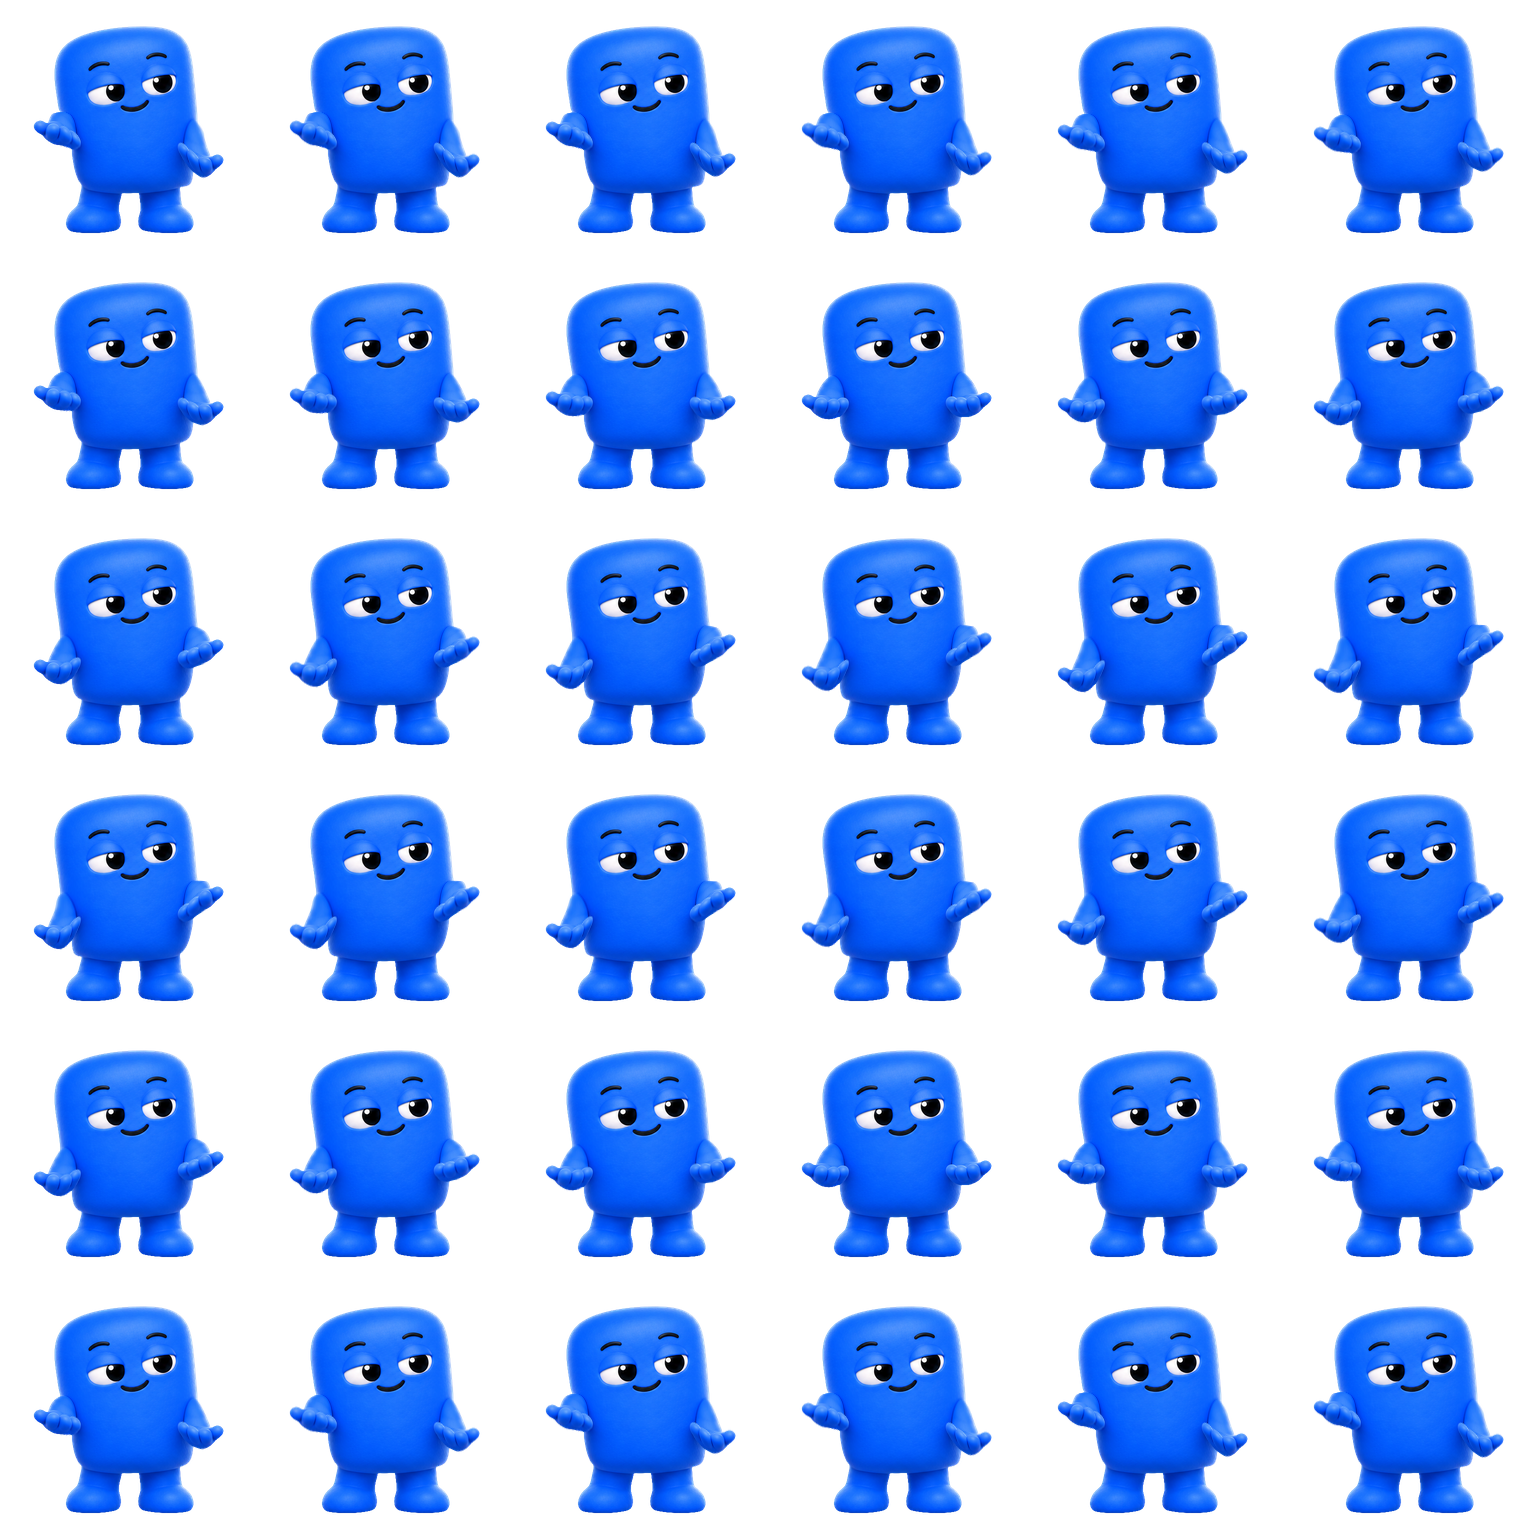
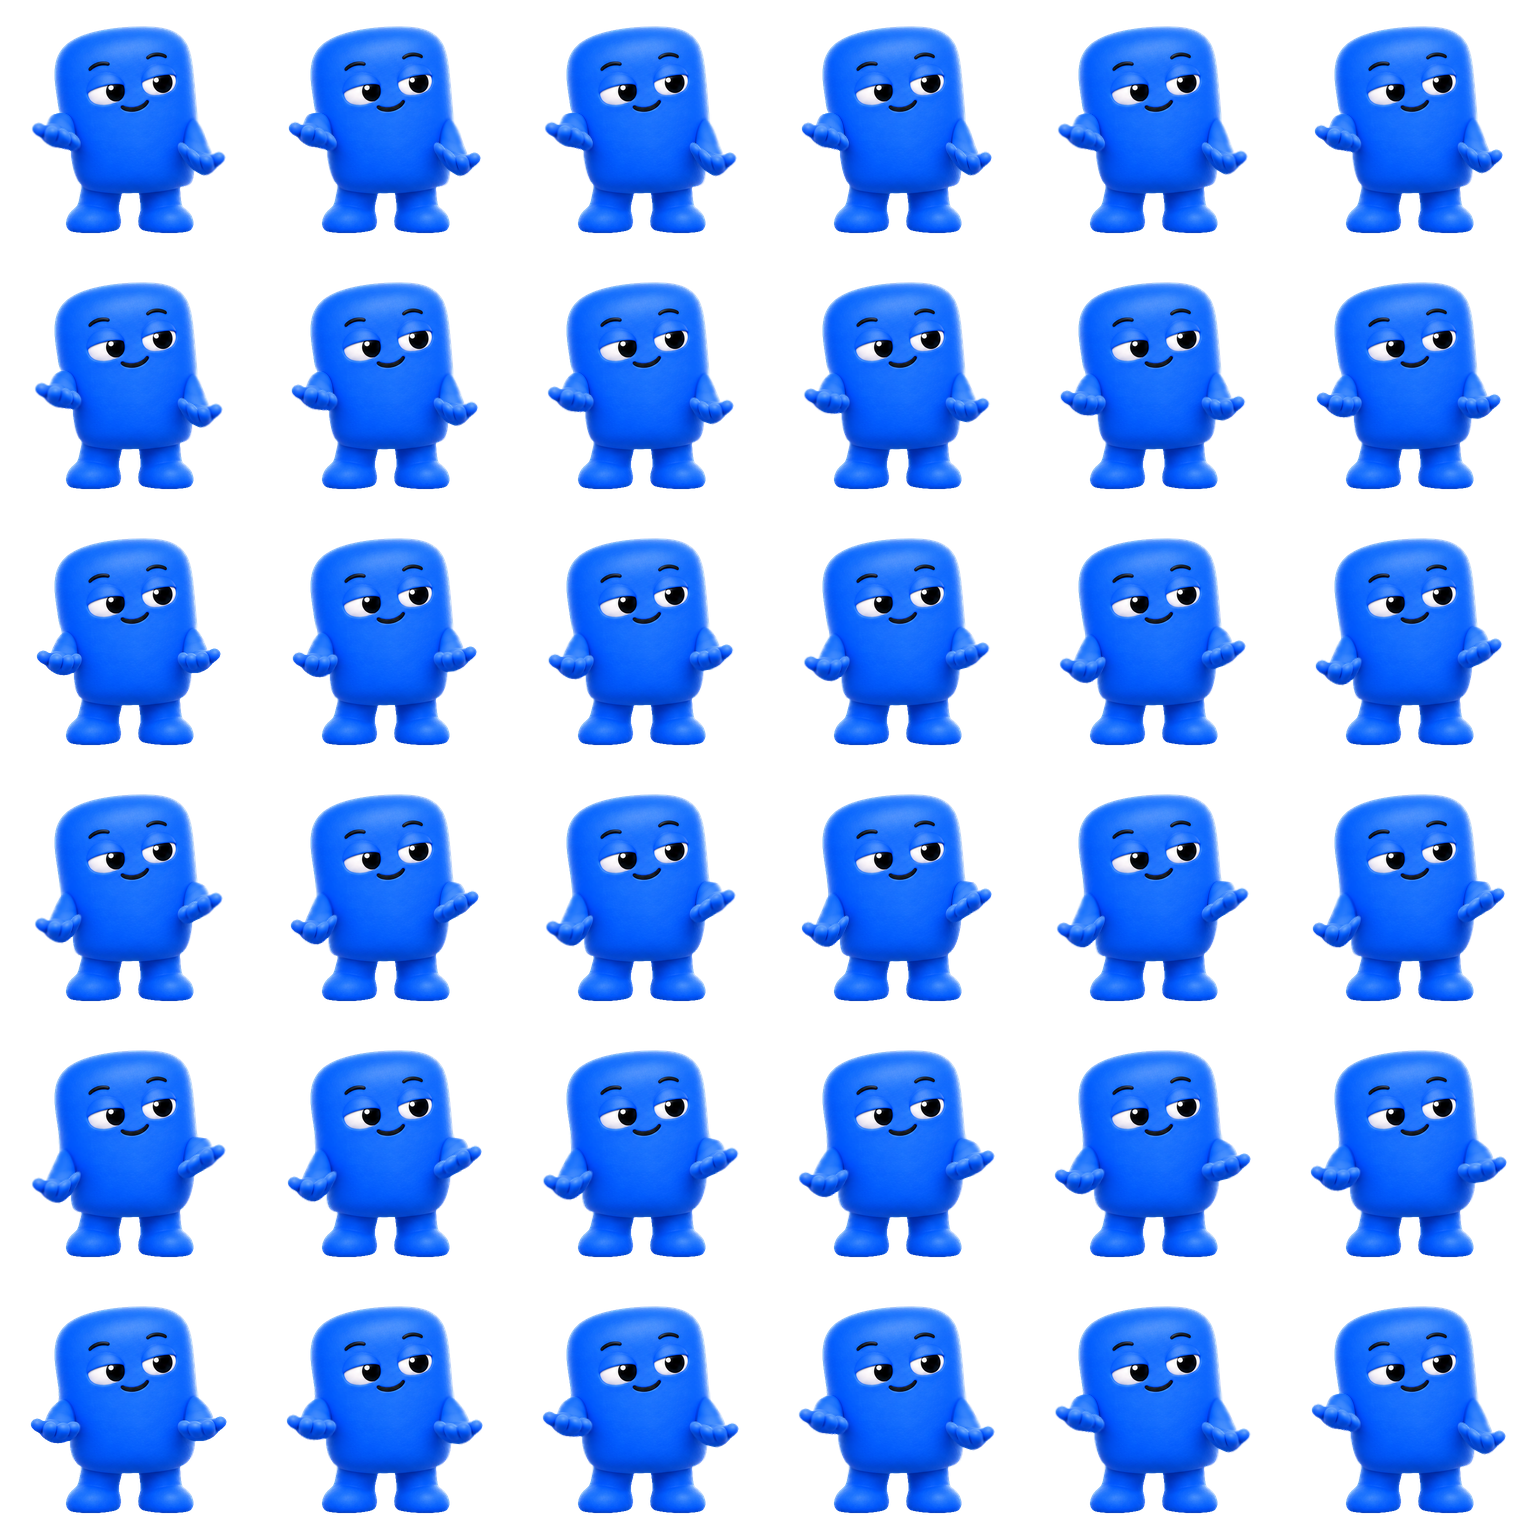
Give six-seven a distinct return path instead of mirrored playback
A cosine-only displacement made mirror pairs identical. Use an asymmetric vertical wave with a small horizontal quadrature motion so each arm follows a closed orbit. Keep 36 frames, 24fps, 256px cells, anchored face and feet, and lossless RGBA.

Reviewed all frames on light and dark backgrounds. Every nontrivial mirror pair differs. Mean premultiplied RGB differences over all 36 frames give:

Atlas | Mirror / mean step | Wrap / mean step
scan | 5.099 | 0.770
greeting | 6.354 | 0.866
success | 4.591 | 0.487
concern | 5.348 | 0.797
worried | 4.842 | 0.449
alarmed | 4.170 | 0.231
six-seven | 4.070 | 0.809
relieved | 6.271 | 9.515

Relief is a one-shot; its large closing gap is expected. Ratios depend on pixel weighting and starting phase; they are diagnostics, not proof of geometry. The two-axis arm field provides the distinct return route.

diff --git a/scripts/prepare-six-seven.py b/scripts/prepare-six-seven.py
@@ -27,17 +27,23 @@ def smoothstep(low, high, value):
 
 base = np.asarray(keys[2]).astype(np.float32)/255
 base[:,:,:3] *= base[:,:,3:4]
-left = 1-smoothstep(58,91,xx)
-right = smoothstep(174,207,xx)
 frames = []
 for index in range(36):
-    amplitude = 18*np.cos(2*np.pi*index/36)
-    source_y = yy.copy()
+    phase = 2*np.pi*index/36 + np.pi/3
+    # Cosine alone retraced the same gesture. An asymmetric vertical wave
+    # varies timing; a small quadrature horizontal component gives the return
+    # its own route. A scalar harmonic alone would still retrace one line.
+    amplitude = CELL*(18/256)*(np.sin(phase)+.15*np.sin(2*phase))/1.15
+    sideways = CELL*(3/256)*np.cos(phase)
+    source_x, source_y = xx.copy(), yy.copy()
     for _ in range(8):
-        vertical = smoothstep(105,134,source_y)*(1-smoothstep(170,203,source_y))
-        displacement = amplitude*(right-left)*vertical
-        source_y = yy-displacement
-    p = cv2.remap(base,xx,source_y.astype(np.float32),cv2.INTER_LINEAR,borderMode=cv2.BORDER_CONSTANT)
+        vertical = smoothstep(CELL*105/256,CELL*134/256,source_y)*(1-smoothstep(CELL*170/256,CELL*203/256,source_y))
+        arm_left = 1-smoothstep(CELL*58/256,CELL*91/256,source_x)
+        arm_right = smoothstep(CELL*174/256,CELL*207/256,source_x)
+        band = (arm_right-arm_left)*vertical
+        source_x = xx-sideways*band
+        source_y = yy-amplitude*band
+    p = cv2.remap(base,source_x.astype(np.float32),source_y.astype(np.float32),cv2.INTER_LINEAR,borderMode=cv2.BORDER_CONSTANT)
     p[:,:,:3] = np.divide(p[:,:,:3],p[:,:,3:4],out=np.zeros_like(p[:,:,:3]),where=p[:,:,3:4]>0.001)
     frames.append(Image.fromarray(np.uint8(np.clip(p*255,0,255))))
 atlas = Image.new('RGBA',(1536,1536))
@@ -51,6 +57,7 @@ for i,frame in enumerate(frames):
     preview.append(bg)
 # Lossless WebP: pixel-identical to PNG, ~40% smaller in the bundle.
 atlas.save(OUT/'six-seven-smooth.webp',lossless=True,quality=100,method=6,exact=True)
+assert np.array_equal(np.asarray(atlas), np.asarray(Image.open(OUT/'six-seven-smooth.webp').convert('RGBA'))), 'lossless RGBA round-trip failed'
 preview[0].save(OUT/'six-seven-preview.webp',save_all=True,append_images=preview[1:],duration=[round((i+1)*1000/24)-round(i*1000/24) for i in range(36)],loop=0,quality=95)
 Image.open(ROOT/'assets/mascot/celebration/C10-six-seven.png').convert('RGB').resize((600,600),Image.Resampling.LANCZOS).save(ROOT/'modules/coupon-widget/android/src/main/res/drawable-nodpi/celebration_67.webp',quality=94)
 print('Six-seven: 36 frames, 24fps; widget uses the supplied artwork')

diff --git a/assets/mascot/3d/README.md b/assets/mascot/3d/README.md
@@ -120,12 +120,17 @@ and previews at actual per-state rates. `inspect-mascot-atlases.py --output-dir
 /tmp/kuponi-review` creates all-frame contact sheets on both themes and reports
 wrap/midpoint deltas. Deltas are diagnostics, not an artistic pass criterion.
 
-The motion-only revision leaves the six-seven asset and builder untouched and
+The first motion revision left six-seven untouched. Its follow-up corrects the
+cosine palindrome with asymmetric vertical timing and a small horizontal return
+path; both masks and amplitude are fractions of CELL. This follow-up still
 keeps every production atlas at 256px per cell. Native iOS share animations use
 the same 12fps scan / 24fps cheer timing. Screen-state mapping is unchanged.
 
 Animation principles verified against [AnimSchool's idle breakdown](https://blog.animschool.edu/2024/06/14/breathing-life-into-idle-animations/):
 overlapping body layers and varied timing support a living idle. These are
 animation choices, not a claim that every sinusoid or reversal is a defect.
-The unchanged six-seven cosine naturally reverses direction at its extrema;
-what is removed from the pose cycles is the complete mirrored replay.
+The original six-seven cosine was seamless but exactly mirrored. A scalar second
+harmonic changes timing, not the geometric path. The corrected field uses
+(sin(p) + 0.15*sin(2*p))/1.15 vertically and a 3/256*CELL horizontal cosine,
+with opposing arm masks and phase pi/3. This produces a narrow closed orbit,
+keeps the peak swing close to the original, and anchors face and feet.

diff --git a/docs/mascot/INVENTORY.md b/docs/mascot/INVENTORY.md
@@ -172,3 +172,7 @@ C8 (`referral`) במצב זהה: הנייטיב מטפל, JS לא פולט. זה
 > הצינור מחובר מקצה לקצה דרך `CouponWidget.swift:592-606` ו־
 > `CouponWidgetProvider.kt:83-87`. ההחלטה עצמה עברה מאז מ־`widgetSync.ts`
 > ל־`src/lib/celebrationScene.ts`, כדי שגם האפליקציה תוכל לצייר אותה.
+
+תיקון six-seven: קוסינוס יחיד יצר פריימי מראה זהים. השדה המעודכן משלב
+גל אנכי אסימטרי עם הסטה אופקית קטנה בהפרש פאזה, כדי לתת לחזרה מסלול אחר.
+36 פריימים, 24fps, תא 256px בשלב תיקון התנועה; הפנים והרגליים מעוגנים.
